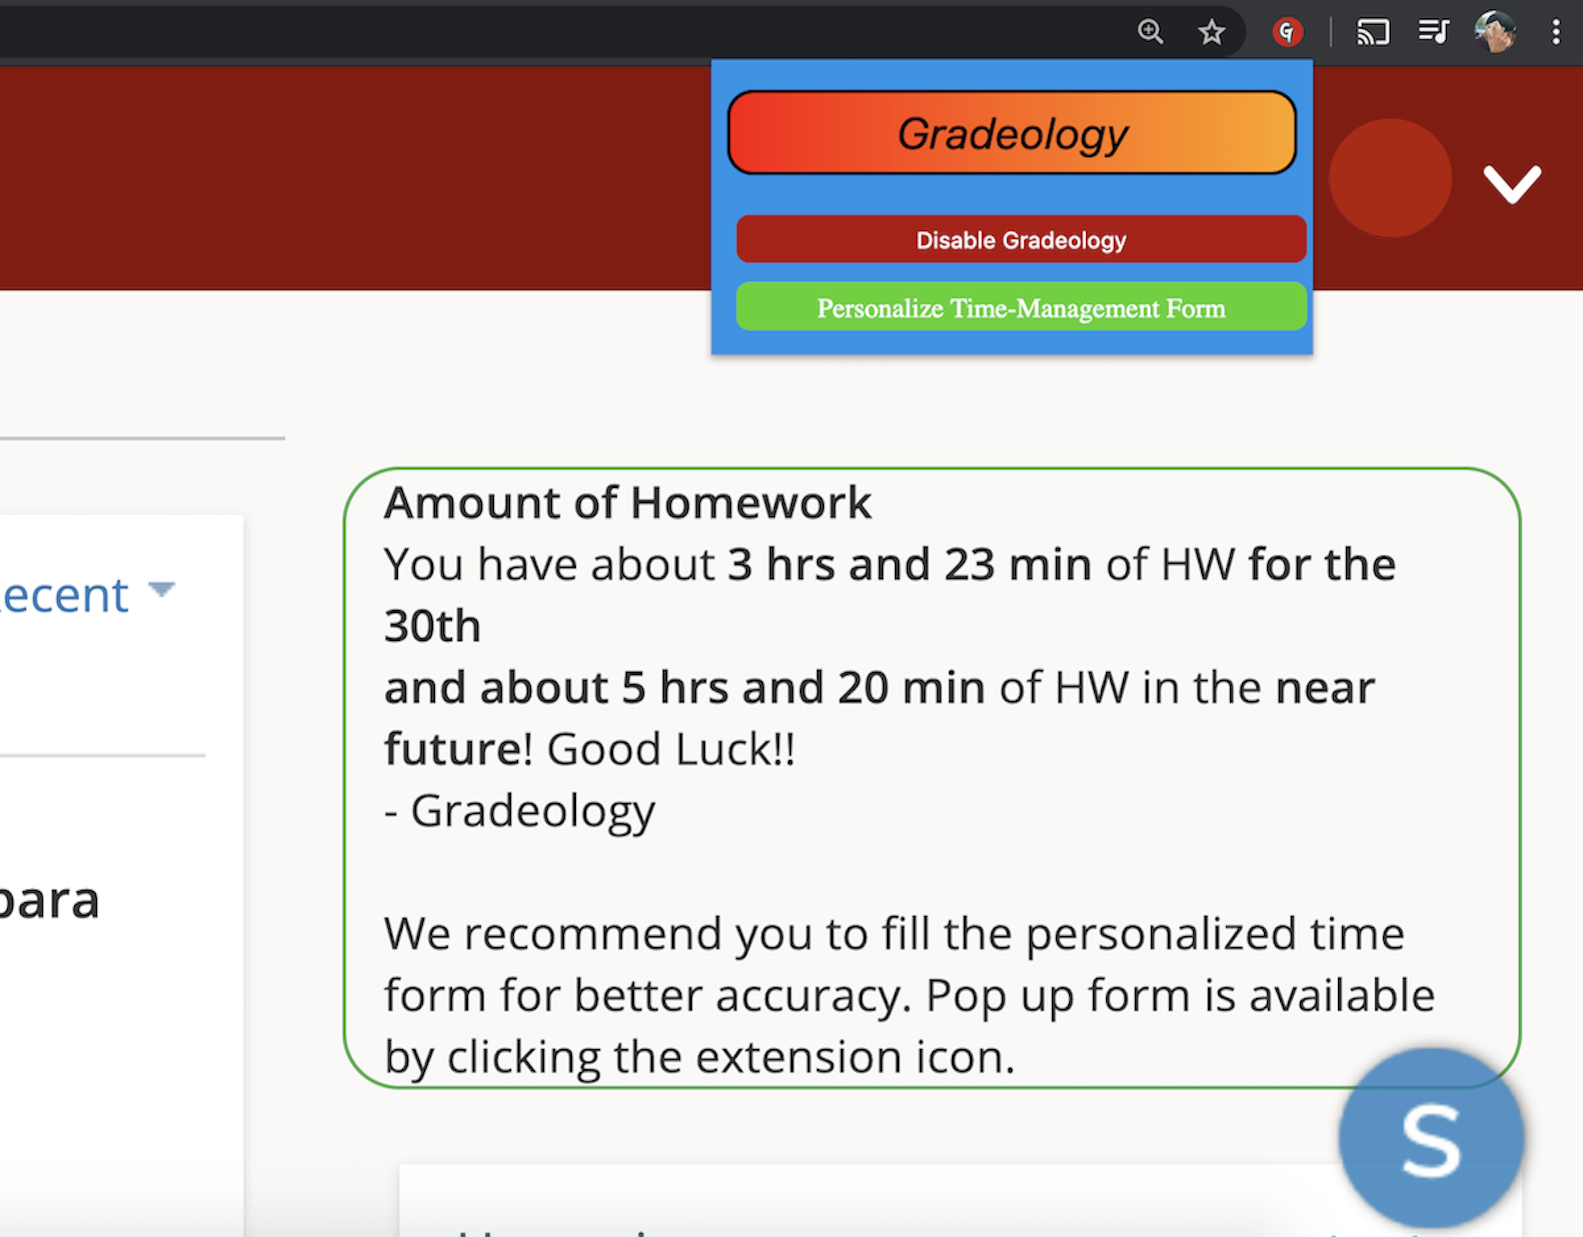
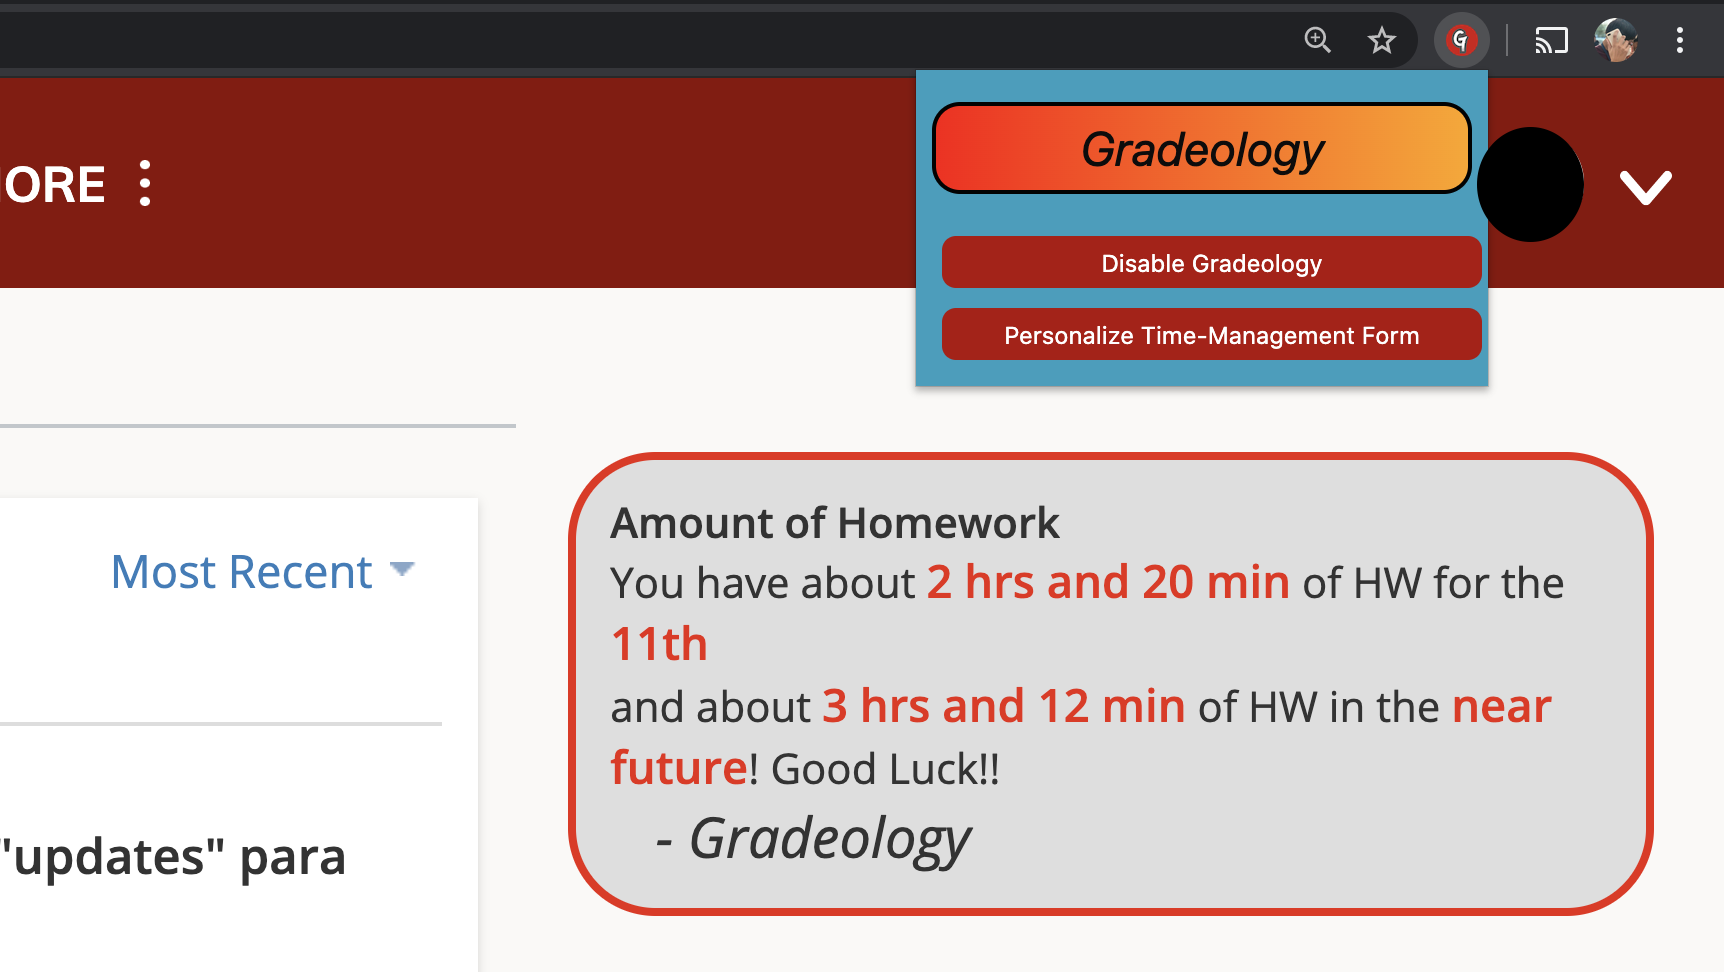
gradeology1.1.1 css

diff --git a/Script/assignmentRead.js b/Script/assignmentRead.js
@@ -1,7 +1,7 @@
 $(document).ready(function () {
     chrome.storage.sync.get(['coursesRead', 'enabled'], function (val) {
         var bool = val.coursesRead;
-        var enable = val.enabled; 
+        var enable = val.enabled;
         if (bool == 'true' && enable == 'true') {
             $.ajax({
                 type: "GET",
@@ -27,10 +27,10 @@ $(document).ready(function () {
                             str = str.substring(0, cut - 1);
 
                             assignments.push(str);
-                            if(assignments.length > dates.length){
+                            if (assignments.length > dates.length) {
                                 dates.push(dates[dates.length - 1]);
                                 months.push(months[months.length - 1]);
-                            } 
+                            }
                             //console.log(str.substring(0, cut - 1));
                         } else {
                             var assigDate = dummy[0].outerHTML;
@@ -114,7 +114,7 @@ function setNumAssignments(assignments, array) {
     chrome.storage.sync.get(class_array, function (val) {
         var occurencesArr = [getOccurences(val.class1, assignments), getOccurences(val.class2, assignments), getOccurences(val.class3, assignments), getOccurences(val.class4, assignments), getOccurences(val.class5, assignments), getOccurences(val.class6, assignments), getOccurences(val.class7, assignments)];
 
-        for(var i = 0; i < 7; i++){
+        for (var i = 0; i < 7; i++) {
             array[i] = occurencesArr[i];
         }
     });
@@ -158,16 +158,18 @@ function printTime(day, due, totalAssigs, todayAssigs) {
         var hrs = Math.floor(temp / 60);
         var min = temp % 60;
 
-        var datestr = 'the ';
+        var datestr = 'the <span style="font-size:13px; color:#ea2612"><b>';
         if (day == 1) datestr += "1st";
         else if (day == 2) datestr += "2nd";
         else if (day == 3) datestr += "3rd";
         else datestr += day + "th";
         if (due == 5) datestr = 'today night';
+        datestr += '</b></span>';
 
-        var str = 'You have about <b>' + hrsToday + ' hrs and ' + minToday + ' min</b> of HW <b>for ' + datestr + '</b>  <br> <b> and about ' + hrs + ' hrs and ' + min + ' min</b> of HW in the <b>near future</b>! Good Luck!!   <br>  - Gradeology';
-        if (items.doneForm != "true") str += '<br><br>We recommend you to fill the personalized time form for better accuracy. Pop up form is available by clicking the extension icon.'
-        $("#right-column").prepend('<div id="timeology time" style="padding-left: 10px; padding-right: 10px; border: 1px solid #4CAF50; border-radius: 15px"><table> <tr> <th>Amount of Homework</th> </tr> <tr> <td id = "time display">' + str + '</td> </tr></table></div>');
+        //var str = 'You have about <b>' + hrsToday + ' hrs and ' + minToday + ' min</b> of HW <b>for ' + datestr + '</b>  <br> <b> and about ' + hrs + ' hrs and ' + min + ' min</b> of HW in the <b>near future</b>! Good Luck!!   <br>  - Gradeology';
+        // if (items.doneForm != "true") str += '<br><br>We recommend you to fill the personalized time form for better accuracy. Pop up form is available by clicking the extension icon.'
+        // $("#right-column").prepend('<div id="timeology time" style="padding-left: 10px; padding-right: 10px; border: 1px solid #4CAF50; border-radius: 15px"><table> <tr> <th>Amount of Homework</th> </tr> <tr> <td id = "time display">' + str + '</td> </tr></table></div>');
+        $("#right-column").prepend(timeDiv(hrsToday, minToday, datestr, hrs, min, items.doneForm));
     });
 }
 
@@ -182,3 +184,21 @@ function getOccurences(value, assignments) {
     return num;
 };
 
+function timeDiv(hrsT, minT, date, hrs, min, doneForm) {
+    var div = document.createElement('div');
+    div.setAttribute('id', 'timeDiv');
+    div.setAttribute('style', "padding: 10px; border: 2px solid #ea2612; border-radius: 25px; background:#dedede")
+    var p = document.createElement('span');
+    p.innerHTML = '<b>Amount of Homework</b>';
+    var sp = document.createElement('span');
+    var cssSpan = '<span style="font-size:13px; color:#ea2612">';
+    sp.innerHTML = '<br>You have about '+cssSpan+'<b>' + hrsT + ' hrs and ' + minT + ' min</b></span> of HW for ' + date + '<br> and about '+cssSpan+'<b>' + hrs + ' hrs and ' + min + ' min</b></span> of HW in the '+cssSpan+'<b>near future</b></span>! Good Luck!!   <br><span style="font-size:16px; padding-left:13px"><i>  - Gradeology';
+    div.appendChild(p);
+    div.appendChild(sp);
+    if (doneForm != 'true') {
+        var form = document.createElement('span');
+        form.innerHTML = '<br><br><i>We recommend you to fill the personalized time form for better accuracy. The form is available by clicking the extension icon.'
+        div.appendChild(form);
+    }
+    return div;
+}

diff --git a/css/popup.css b/css/popup.css
@@ -21,7 +21,7 @@
 }
 
 body {
-  width: 300px;
+  width: 270px;
   -webkit-animation: bgcolor 20s infinite;
   animation: bgcolor 10s ease-in-out infinite;
   -webkit-animation-direction: alternate;
@@ -30,7 +30,7 @@ body {
 
 div{
     backface-visibility: hidden;
-    width: 300px;
+    width: 270px;
     font-size: 4mm;
     font-style: bold;
     font-family: Arial, Helvetica, sans-serif;
@@ -59,7 +59,7 @@ button {
   text-align: center;
   font-size: 12px;
   padding: 6px;
-  width: 300px;
+  width: 270px;
   height: 26px;
   transition: all 0.5s;
   cursor: pointer;
@@ -68,7 +68,6 @@ button {
 
 button:hover {
   background-color: rgb(73, 211, 18);
-  font-family: Cambria;
   font-size: larger;
 }
 

diff --git a/css/form.css b/css/form.css
@@ -56,7 +56,6 @@ h2{
 h1 {
   background-image: linear-gradient(to right, red, orange);
   padding: 7px;
-  /* //font-family: "OCR A Std"; */
   font: "Chalkduster";
   text-align: center;
   border-radius: 14px;
@@ -69,11 +68,8 @@ div {
   margin: auto;
   width: 35%;
   backface-visibility: hidden;
-  /* border-radius: 10px; */
   padding: 10px;
   background-color: rgb(253, 253, 253);
-  /* border-radius: 14px;
-    border: 2px solid rgb(2, 2, 2); */
 }
 
 #hours {
@@ -97,7 +93,6 @@ button {
   height: 26px;
   transition: all 0.5s;
   cursor: pointer;
-  margin: 5px;
   margin: auto;
 }
 
